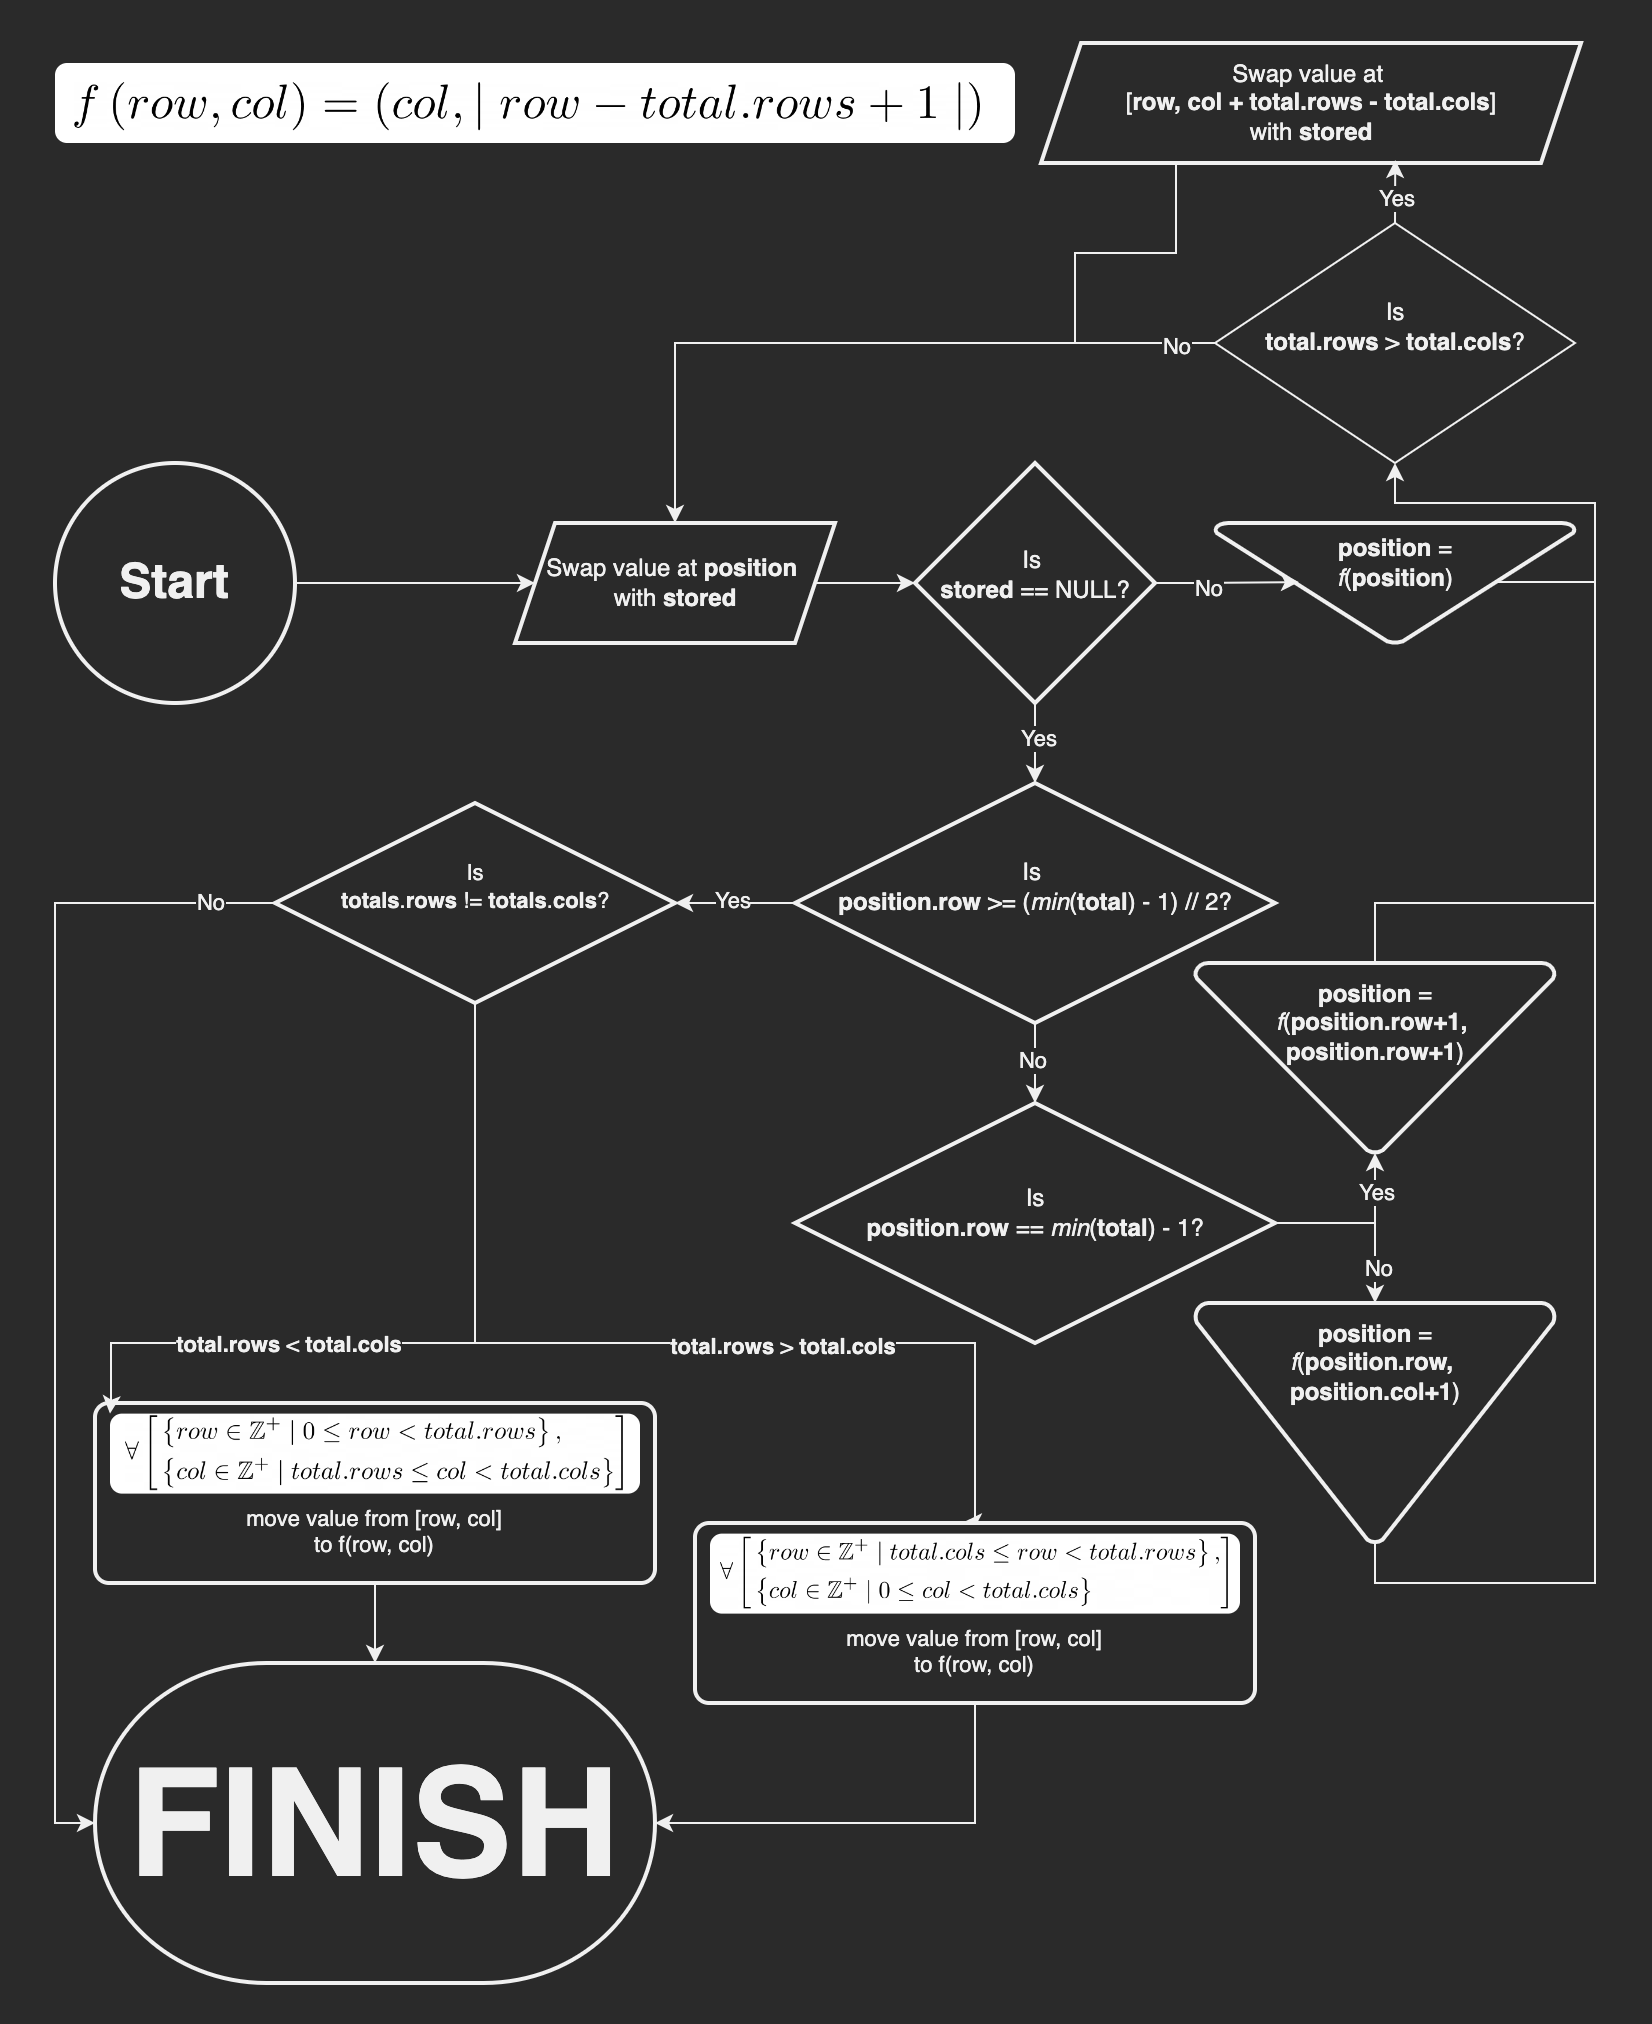
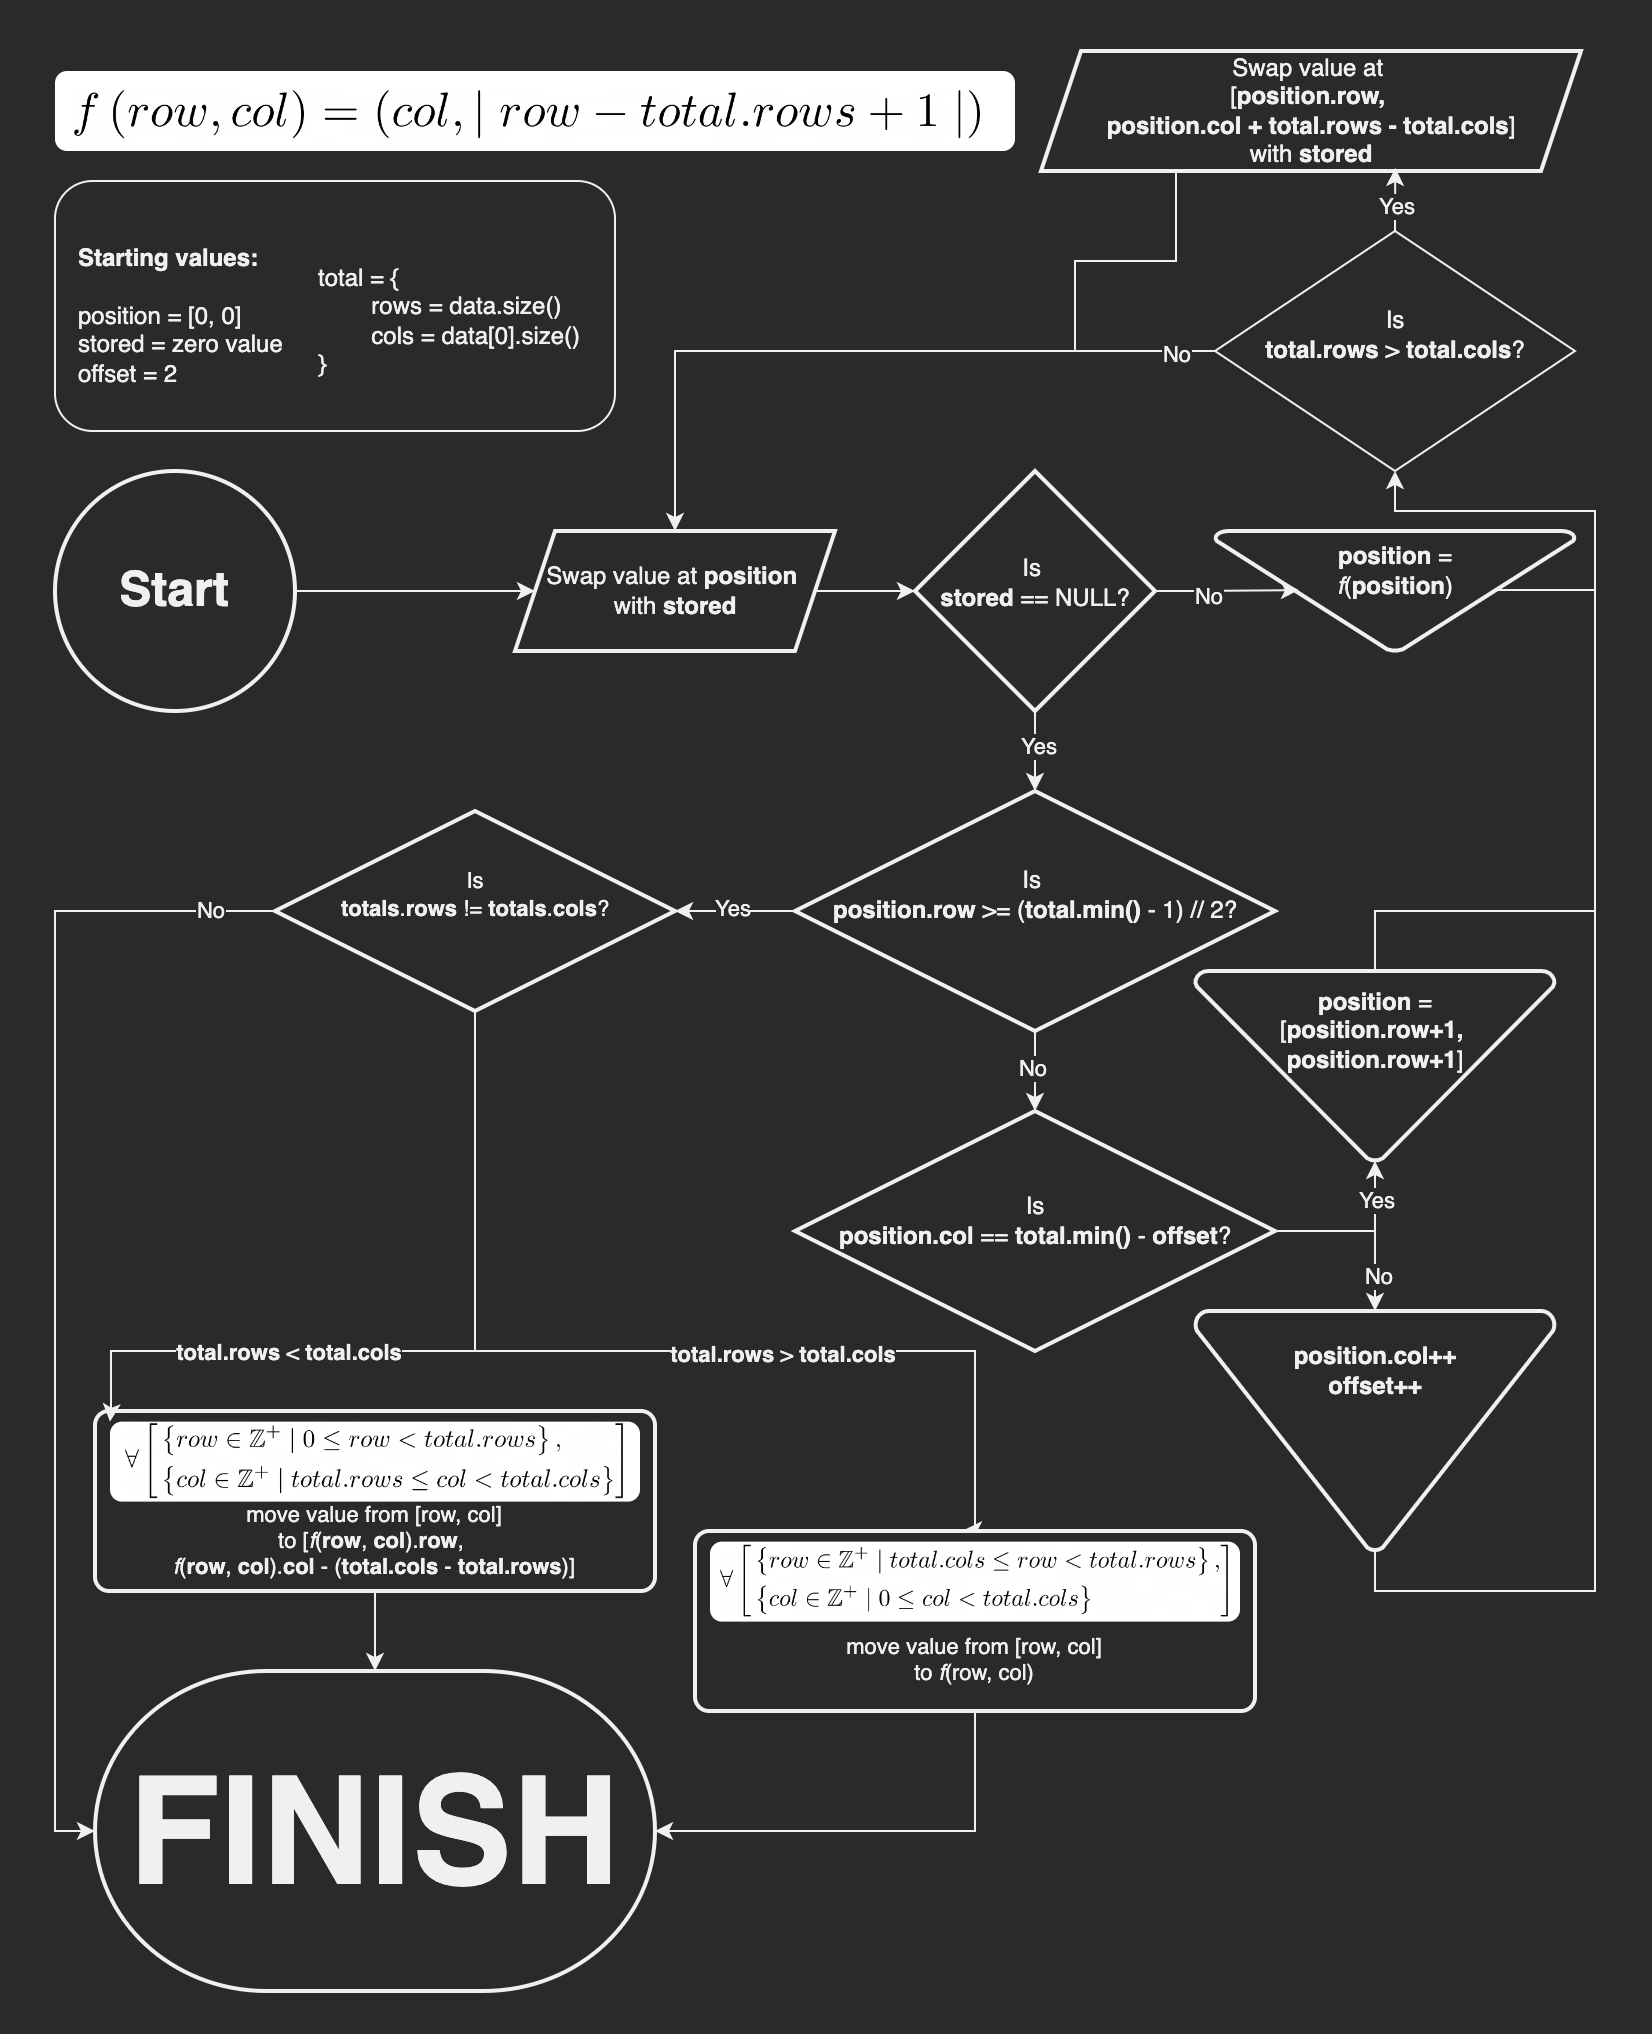
Implement RotatableGridVector::rotate

diff --git a/RotatableGridVector.hpp b/RotatableGridVector.hpp
@@ -1,9 +1,12 @@
 #ifndef ROTATABLEGRIDVECTOR_HPP
 #define ROTATABLEGRIDVECTOR_HPP
 
+#include <vector>
+#include <utility>
+
 template <typename T>
 class RotatableGridVector : public std::vector<std::vector<T>> {
-    using std::vector<std::vector<T>>::vector;
+        using std::vector<std::vector<T>>::vector;
 
     public:
         /**
@@ -17,7 +20,141 @@ class RotatableGridVector : public std::vector<std::vector<T>> {
          * @warning Behaviour is undefined when the internal vectors do not all have the same length.
          */
         void rotate() {
-            throw std::runtime_error("not yet implemented");
+            // Return if size = 0
+            if (this->size() == 0)
+                return;
+
+            // (Re)set member variables
+            this->position = {0, 0};
+            this->null = {(size_t)-1, (size_t)-1};
+            this->stored = {};
+            this->total = {this->size(), this->at(0).size()};
+            this->offset = 2;
+
+            // Resize vectors if total.rows != total.cols
+            if (this->total.rows > this->total.cols) {
+                for (int row = 0; row < this->total.cols; row++)
+                    this->at(row).resize(this->total.rows);
+
+                /*
+                 * When there are more rows than columns and there is insufficient space in the resized vectors to move the
+                 * data in the square `total.min() x total.min()` without overwriting parts of itself prematurely, some
+                 * preliminary 'chunks' must be moved beforehand.
+                 */
+                if (this->total.cols > (this->total.rows + 1) / 2) {
+                    this->chunks = true;
+                    size_t diff = this->total.rows - this->total.cols;
+                    this->realCols = this->total.cols;
+                    this->total.cols = this->total.rows;
+
+                    // Move to begin of internal square
+                    position = {diff, diff};
+                    offset += diff;
+
+#define CHUNK(ROW_FROM, ROW_TO, COL_FROM, COL_TO)                       \
+for (size_t row = (ROW_FROM); row < (ROW_TO); row++) {                  \
+    for (size_t col = (COL_FROM); col < (COL_TO); col++) {              \
+        Coords dest = this->f(row, col);                                \
+        std::swap(this->at(row)[col], this->at(dest.row)[dest.col]);    \
+    }                                                                   \
+} static_assert(true)
+
+                    // Move chunks
+                    CHUNK(0, diff, 0, this->realCols);
+                    CHUNK(diff, this->total.rows, 0, diff);
+                    CHUNK(this->total.rows - diff, this->total.rows, diff, this->realCols);
+                }
+            } else if (this->total.rows < this->total.cols)
+                for (int i = 0; i < this->total.cols - this->total.rows; i++)
+                    this->emplace_back(this->total.rows);
+
+            while (true) {
+                // Swap the value at `position` with `stored`
+                this->swap(this->position);
+
+                // Move all values within the square `total.min() x total.min()`
+                if (this->null != Coords{(size_t)-1, (size_t)-1}) {
+                    this->position = f(this->position);
+                } else if (this->position.row >= (this->total.min() - 1) / 2)
+                    break;
+                else if (this->position.col == this->total.min() - offset) {
+                    this->position.row++;
+                    this->position.col = this->position.row;
+                    this->offset++;
+                } else
+                    this->position.col++;
+
+                if (this->total.rows > this->total.cols && !chunks)
+                    std::swap(this->at(this->position.row)[this->position.col+this->total.rows-this->total.cols], stored);
+            }
+
+            if (this->realCols)
+                this->total.cols = this->realCols;
+
+            // Move all values outside the square (if any) and resize vectors
+            if (this->total.rows < this->total.cols) {
+                for (int row = 0; row < this->total.rows; row++) {
+                    for (int col = this->total.rows; col < this->total.cols; col++) {
+                        Coords dest = f(row, col);
+                        this->at(dest.row)[dest.col] = this->at(row)[col];
+                    }
+                }
+
+                for (int row = 0; row < this->total.cols; row++)
+                    this->at(row).resize(this->total.rows);
+            } else if (this->total.rows > this->total.cols) {
+                if (!chunks) {
+                    this-> realCols = this->total.cols;
+                    this->total.cols = this->total.rows;
+
+                    for (size_t row = this->realCols; row < this->total.rows; row++) {
+                        for (size_t col = 0; col < this->realCols; col++) {
+                            Coords dest = f(row, col);
+                            this->at(dest.row)[dest.col] = this->at(row)[col];
+                        }
+                    }
+                }
+
+                this->resize(this->realCols);
+            }
+        }
+
+    private:
+        struct Coords {
+            size_t row, col;
+
+            bool operator==(const Coords &rhs) const {
+                return this->row == rhs.row && this->col == rhs.col;
+            }
+        } position, null;
+        T stored;
+        struct {
+            size_t rows, cols;
+
+            size_t min() {
+                return std::min(this->rows, this->cols);
+            };
+        } total;
+        size_t realCols = 0;
+        size_t offset = 2;
+        bool chunks = false;
+
+        Coords f(size_t row, size_t col) {
+            return { col, (size_t)std::abs((int)row - (int)this->total.min() + 1) };
+        }
+        Coords f(Coords pos) {
+            return f(pos.row, pos.col);
+        }
+
+        void swap(Coords pos) {
+            if (pos == this->null)
+                this->null = {(size_t)-1, (size_t)-1};
+            else if (this->null == Coords{(size_t)-1, (size_t)-1})
+                this->null = pos;
+            std::swap(this->at(pos.row)[pos.col], stored);
+        }
+        void swap(size_t row, size_t col) {
+            return this->swap(Coords{row, col});
         }
 };
 

diff --git a/RotatableGridVector_test.cpp b/RotatableGridVector_test.cpp
@@ -20,7 +20,7 @@ RotatableGridVector<unsigned char> genActual(size_t rows, size_t cols) {
     return r;
 }
 
-RotatableGridVector<unsigned char> genExpected(size_t rows, size_t cols) {
+RotatableGridVector<unsigned char> genExpected(size_t cols, size_t rows) {
     GEN;
 
     unsigned char c = 'A';

diff --git a/README.md b/README.md
@@ -5,8 +5,10 @@ A class derived from `std::vector<std::vector<T>>` that provides a method to rot
 
 ---
 
-A diagram explaining the algorithm to rotate the vector can be found below.
+A diagram explaining the algorithm to rotate the vector can be found below. In cases where `total.rows > total.cols` and `total.cols > (total.rows+1)/2`, a separate algorithm moves chunks of data around before the main rotation algorithm is used to avoid overwriting data in overlapping sections. The second diagram illustrates this process (dashed lines indicate empty cells). After the chunks are moved, the blue square is rotated.
 
 ![Algorithm](images/algorithm.png)
+
+![Chunks](images/chunks.png)
 
 Diagrams created using [diagrams.net](https://diagrams.net)
